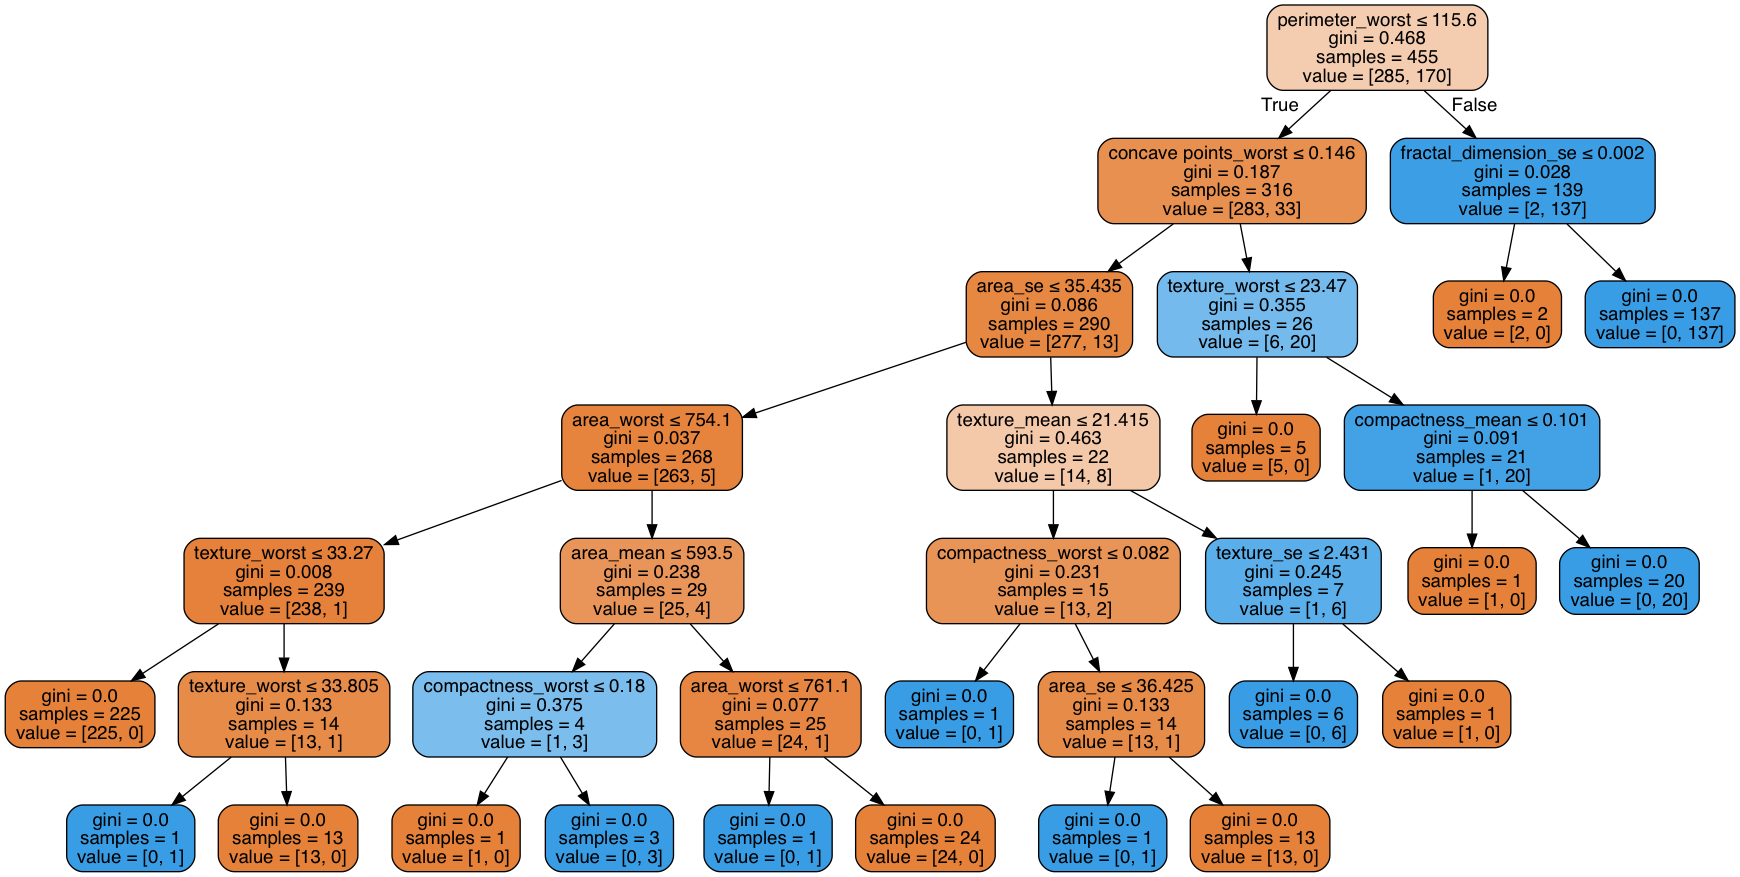
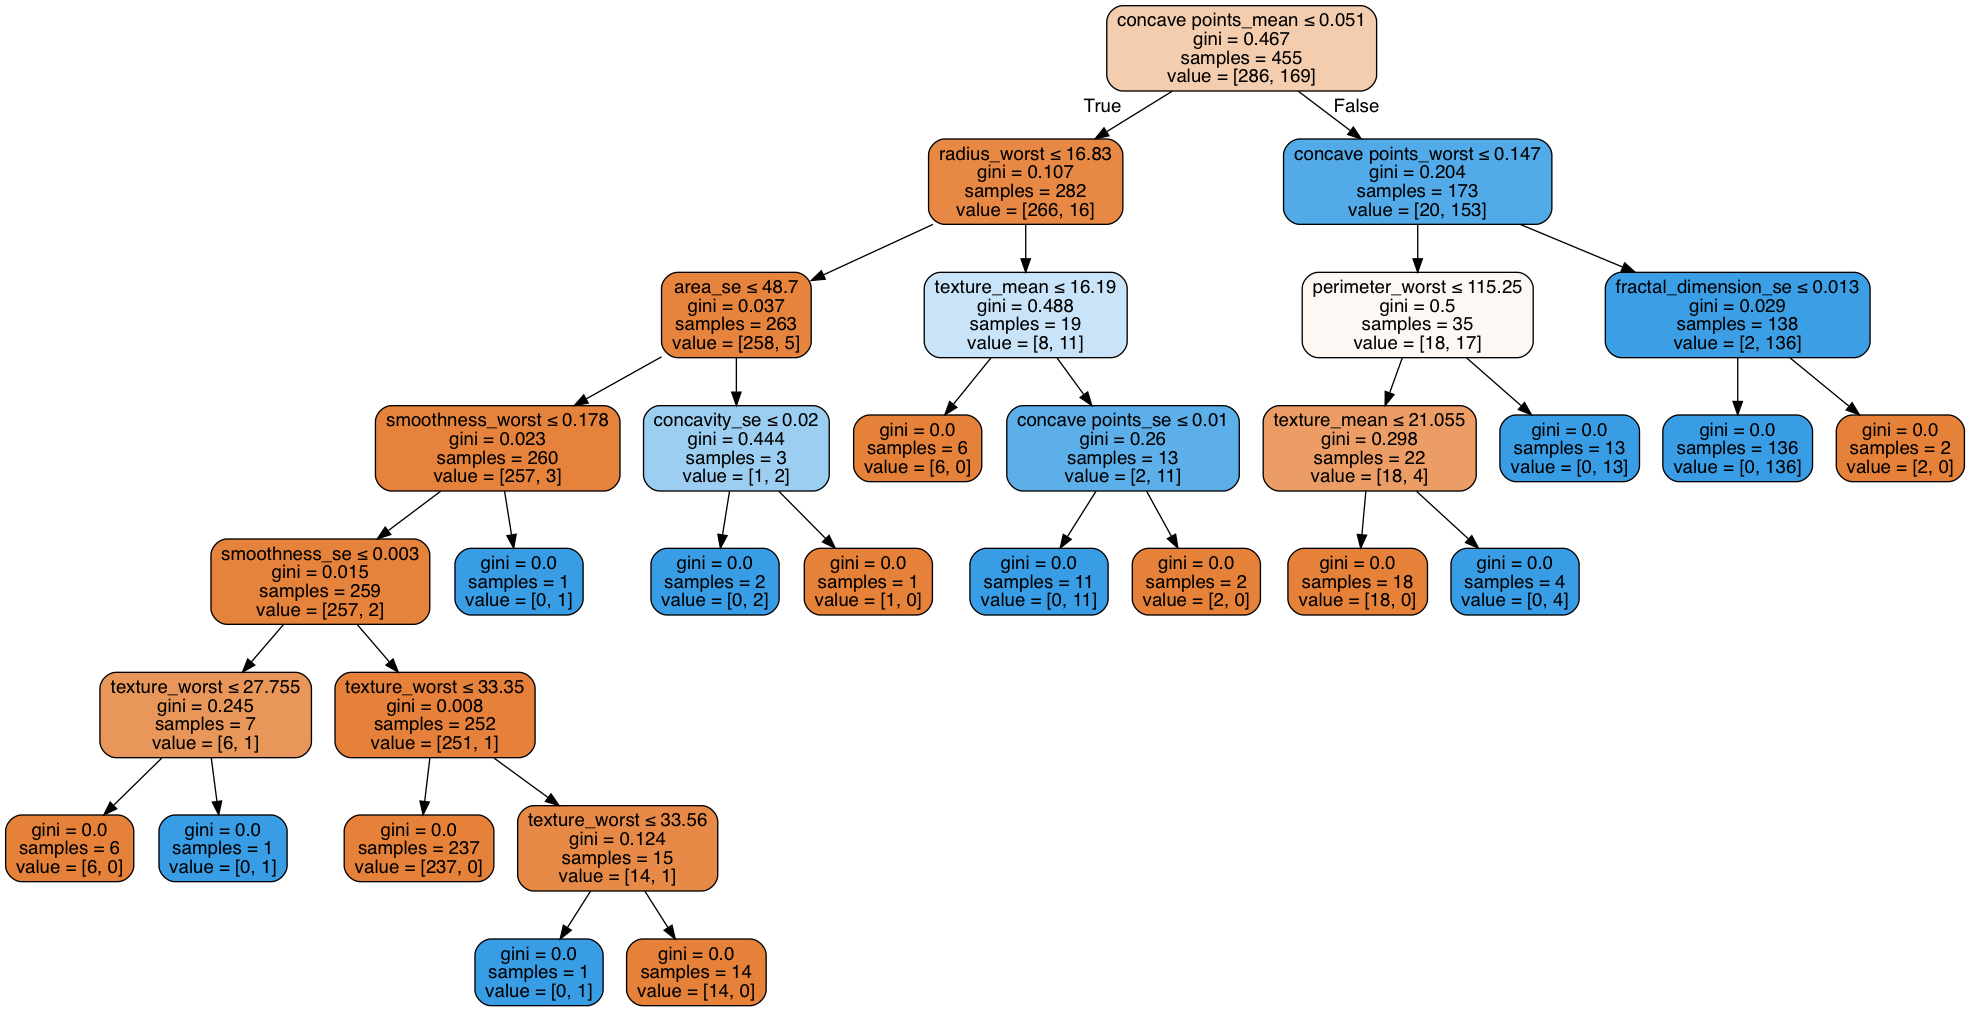
wrapping everything up

diff --git a/visualize.py b/visualize.py
@@ -20,6 +20,7 @@ x.drop(['diagnosis'], axis = 1, inplace = True)
 
 #standardize the columns
 x = (x - x.mean()) / x.std()
+y = x.copy(deep = True)
 
 #Plot violinplots for a high level view of each feature
 output_dir = output + 'violinplots/'
@@ -28,10 +29,10 @@ plotters.violinplotter(x, labs,  output_dir)
 #Choose features of interest and plot pairplots
 output_dir = output + 'pairwiseplots/'
 cols = ['diagnosis', 'symmetry_mean', 'fractal_dimension_mean']
-plotters.pairplots(df, cols, output_dir)
+# plotters.pairplots(df, cols, output_dir)
 
 #Explore some bivariate KDE plots for like features
-plotters.bivariate_kde(df, 'concavity_mean', 'concave points_mean', output + 'kde_density_plots/')
+# plotters.bivariate_kde(df, 'concavity_mean', 'concave points_mean', output + 'kde_density_plots/')
 
 output_dir = output + 'clustermaps/'
 if not os.path.exists(output_dir):
@@ -40,7 +41,7 @@ if not os.path.exists(output_dir):
 g = sns.clustermap(x.corr())
 plt.setp(g.ax_heatmap.get_yticklabels(), rotation = 0)
 plt.setp(g.ax_heatmap.get_xticklabels(), rotation = 90)
-plt.savefig(output_dir + 'clustermap_original') #TODO: Figure out how to fix cutoff on this shiznit
+plt.savefig(output_dir + 'clustermap_original', bbox_inches='tight')
 plt.close()
 
 x.drop(['perimeter_mean', 'radius_mean', 'perimeter_worst','radius_worst',
@@ -48,7 +49,7 @@ x.drop(['perimeter_mean', 'radius_mean', 'perimeter_worst','radius_worst',
 g = sns.clustermap(x.corr())
 plt.setp(g.ax_heatmap.get_yticklabels(), rotation = 0)
 plt.setp(g.ax_heatmap.get_xticklabels(), rotation = 90)
-plt.savefig(output_dir + 'clustermap_drop1') #TODO: Figure out how to fix cutoff on this shiznit
+plt.savefig(output_dir + 'clustermap_drop1', bbox_inches='tight')
 plt.close()
 
 x.drop(['compactness_se', 'concavity_se', 'concave points_se','symmetry_se',
@@ -56,18 +57,18 @@ x.drop(['compactness_se', 'concavity_se', 'concave points_se','symmetry_se',
 g = sns.clustermap(x.corr())
 plt.setp(g.ax_heatmap.get_yticklabels(), rotation = 0)
 plt.setp(g.ax_heatmap.get_xticklabels(), rotation = 90)
-plt.savefig(output_dir + 'clustermap_drop2') #TODO: Figure out how to fix cutoff on this shiznit
+plt.savefig(output_dir + 'clustermap_drop2', bbox_inches='tight')
 plt.close()
 
 #Preliminary PCA
-plotters.cum_variance_explained(x, output + 'PCA/')
+plotters.cum_variance_explained(y, output + 'PCA/')
 
 #PCA analysis post basic feature engineering
 plotters.cum_variance_explained(x, output + 'PCA/')
 
-pca = PCA(n_components = x.shape[1])
-pca.fit(x)
-x1 = pca.fit_transform(x)
+pca = PCA(n_components = y.shape[1])
+pca.fit(y)
+x1 = pca.fit_transform(y)
 x1 = pd.DataFrame(x1)
 x1 = pd.concat([labs, x1], axis = 1)
 
@@ -75,12 +76,12 @@ for label, color in zip(('benign', 'malignant'), ('blue','red')):
   plt.scatter(x1[x1['diagnosis'] == label][0], x1[x1['diagnosis'] == label][1], label = label, c = color)
 plt.savefig(output + 'PCA/' + 'Scatter, 2 components')
 
-df = pd.DataFrame(pca.components_, columns=list(x.columns))
+df = pd.DataFrame(pca.components_, columns=list(y.columns))
 
 #Code to generate HTML table to put in blog post because Pandas is stupid
 #and can't print tables in a nice way
 header = []
-ncomponents = 4
+ncomponents = 5
 for i in range(ncomponents):
   header.append('PC' + str(i + 1))
 print(tabulate(df.T.iloc[:, 0:ncomponents], headers = header, tablefmt = 'html'))

diff --git a/predict.py b/predict.py
@@ -1,14 +1,12 @@
 import pandas as pd
 import os
 import subprocess
-import sys
 from sklearn.model_selection import KFold
 from sklearn import tree
 from sklearn.externals.six import StringIO
 from IPython.display import Image
 from sklearn.tree import export_graphviz
 import pydotplus
-import time
 
 output = 'output/'
 if not os.path.exists(output):
@@ -24,16 +22,17 @@ df.drop(['Unnamed: 32', 'id', 'diagnosis'], axis = 1, inplace = True)
 output_dir = output + 'decision_trees/'
 if not os.path.exists(output_dir):
   os.makedirs(output_dir)
-kf = KFold(n_splits = 5, shuffle = True, random_state = 211)
+kf = KFold(n_splits = 5, shuffle = True, random_state = 42)
 fold_accuracy = []
 for train_indices, test_indices in kf.split(df):
   X_train, X_test = df.iloc[train_indices], df.iloc[test_indices]
   Y_train, Y_test = labs[train_indices], labs[test_indices]
 
-  tree_model = tree.DecisionTreeClassifier()
+  tree_model = tree.DecisionTreeClassifier(random_state = 42)
   tree_model.fit(X_train, Y_train)
   preds = tree_model.predict(X_test)
-  print(' '.join(['Fold', str(len(fold_accuracy) + 1), 'Accuracy:', str(sum(preds == Y_test)/len(Y_test))]))
+  accuracy = round((sum(preds == Y_test)/len(Y_test)) * 100, 3)
+  print(' '.join(['Fold', str(len(fold_accuracy) + 1), 'Accuracy:', str(accuracy) + '%']))
 
   fname = ' '.join(['Decision Tree Fold', str(len(fold_accuracy) + 1)])
   with (open(output_dir + fname + '.dot', 'w')) as f:
@@ -45,3 +44,4 @@ for train_indices, test_indices in kf.split(df):
   subprocess.check_call(command)
   os.remove(output_dir + fname + '.dot')
   fold_accuracy.append(sum(preds == Y_test)/len(Y_test))
+print(sum(fold_accuracy)/len(fold_accuracy))
